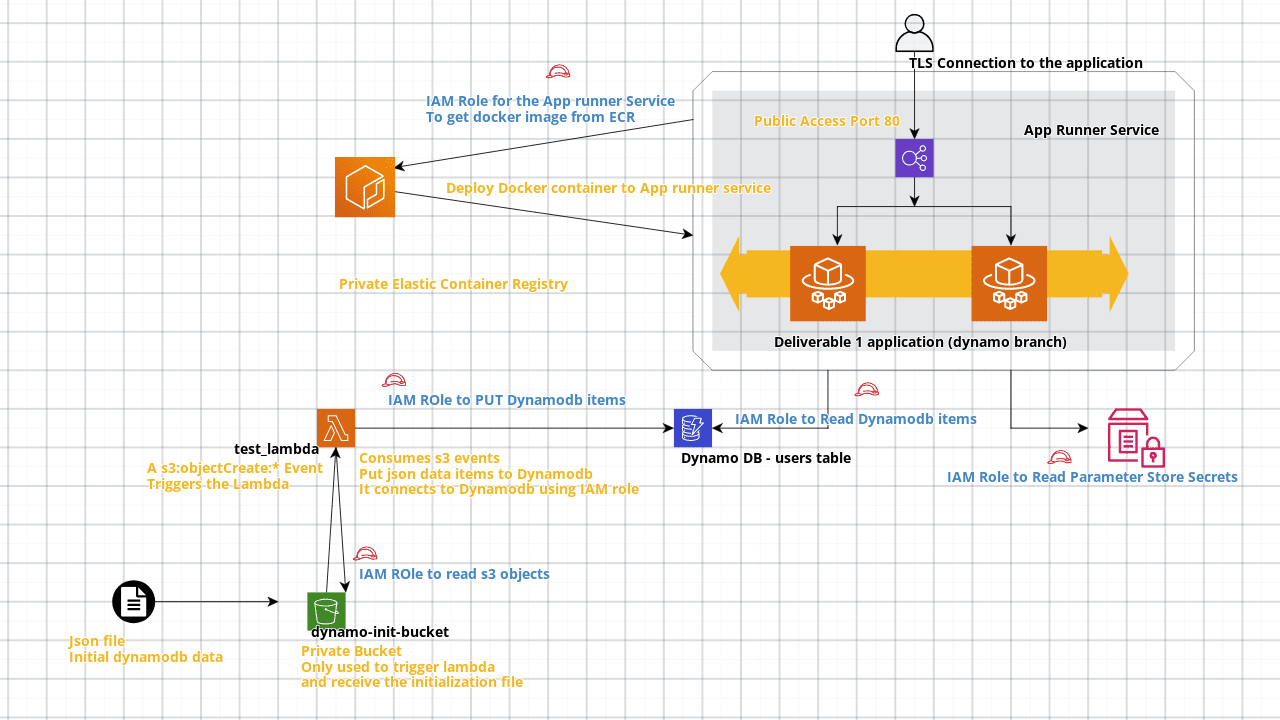
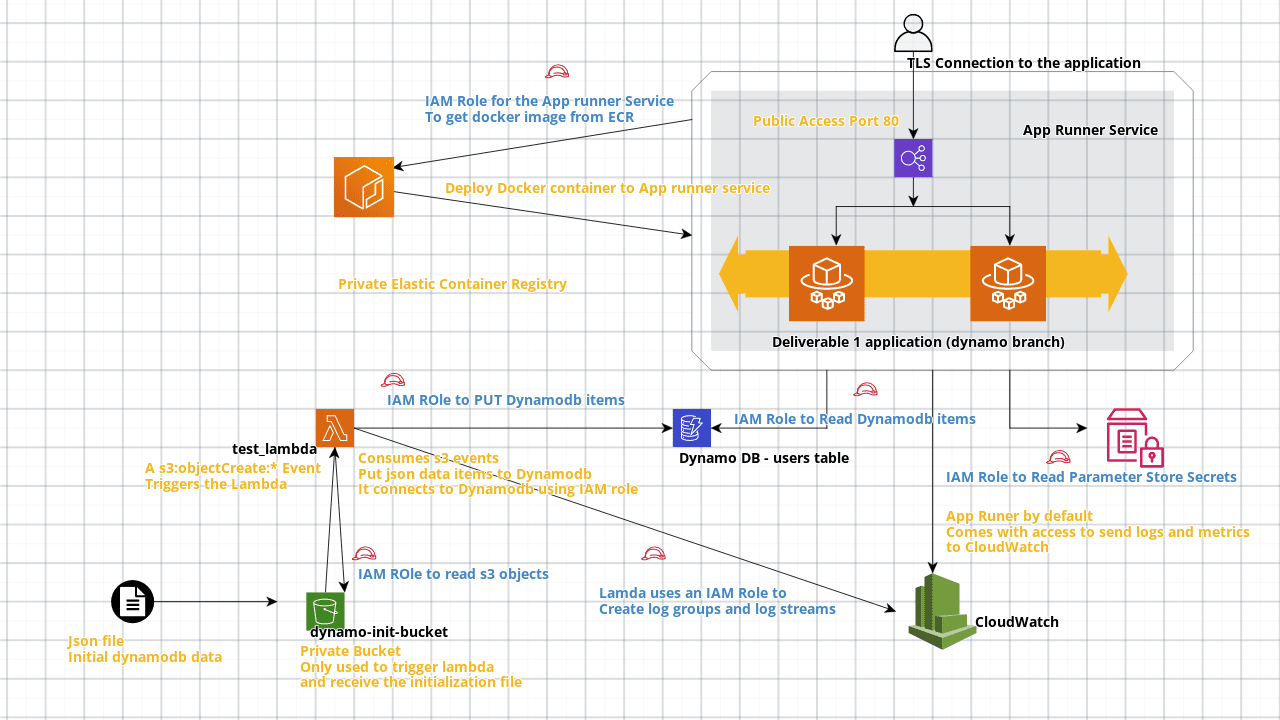
adding needed files to deploy proposed application

diff --git a/dynamo_function.py b/dynamo_function.py
@@ -1,0 +1,26 @@
+import json
+import urllib.parse
+import boto3
+
+print('Loading function')
+
+s3 = boto3.client('s3')
+
+
+def lambda_handler(event, context):
+    bucket = event['Records'][0]['s3']['bucket']['name']
+    key = urllib.parse.unquote_plus(event['Records'][0]['s3']['object']['key'], encoding='utf-8')
+    body = ""
+    try:
+        response = s3.get_object(Bucket=bucket, Key=key)    
+        body = response['Body'].read().decode('utf-8')
+        for record in json.loads(body):
+            username = record['username']
+            role = record['role']
+            print(f"Adding DynamoDB ITEM user:{username}, role:{role}")
+            boto3.client("dynamodb").put_item(TableName="users",Item=record)
+    except Exception as e:
+        print(e)
+        print('Error getting object {} from bucket {}. Make sure they exist and your bucket is in the same region as this function.'.format(key, bucket))
+        raise e
+    
